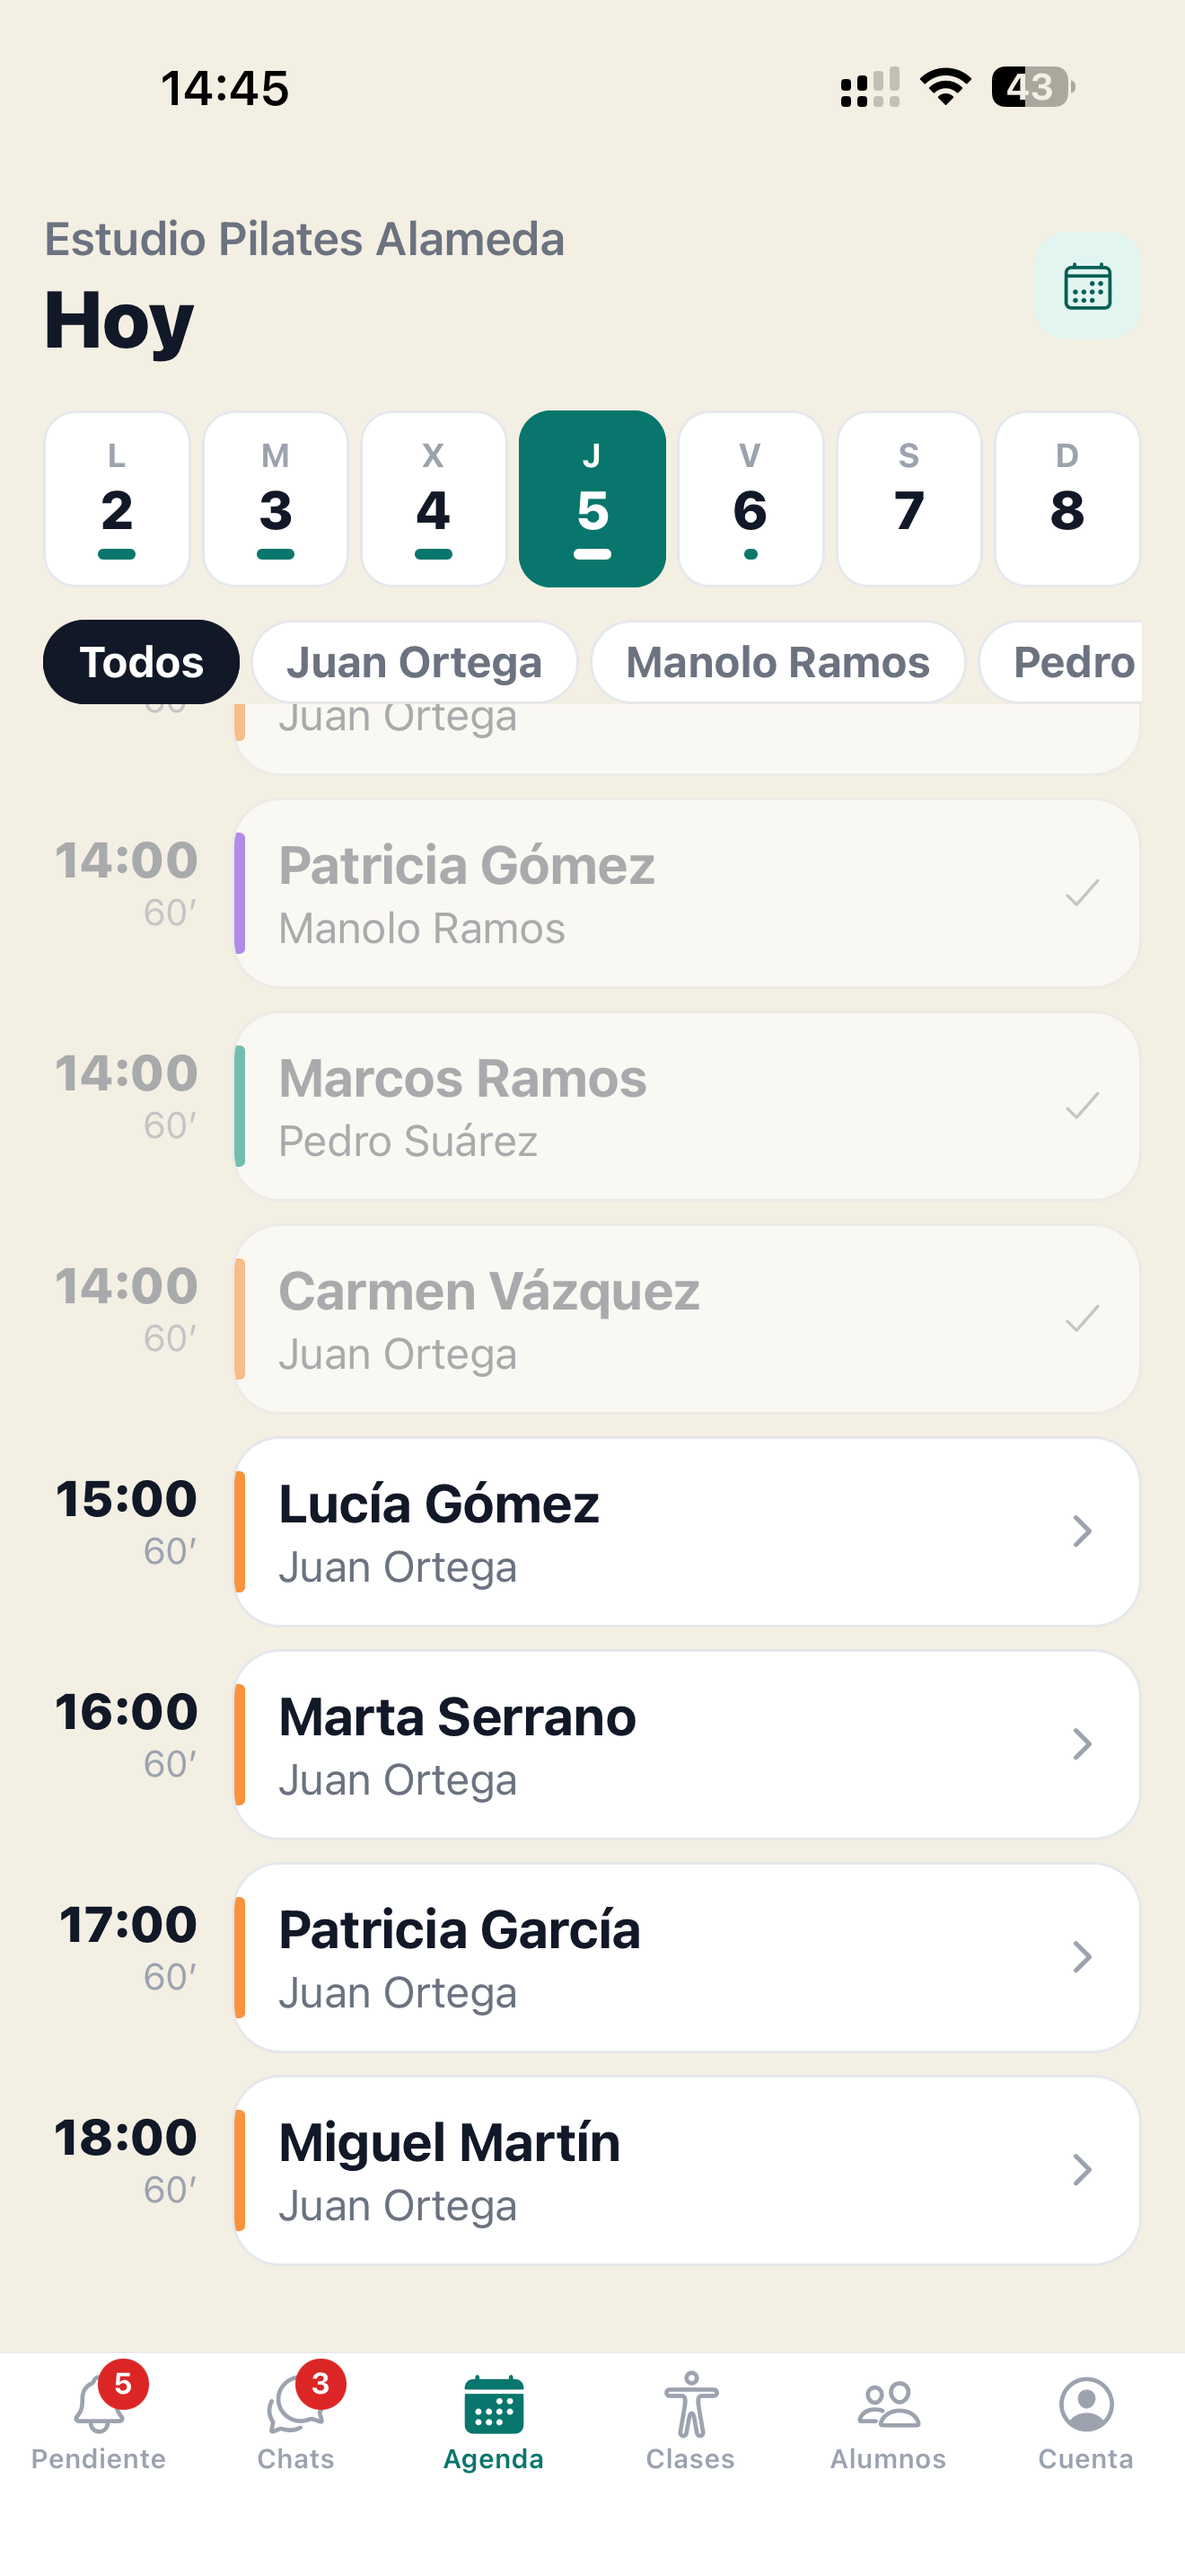
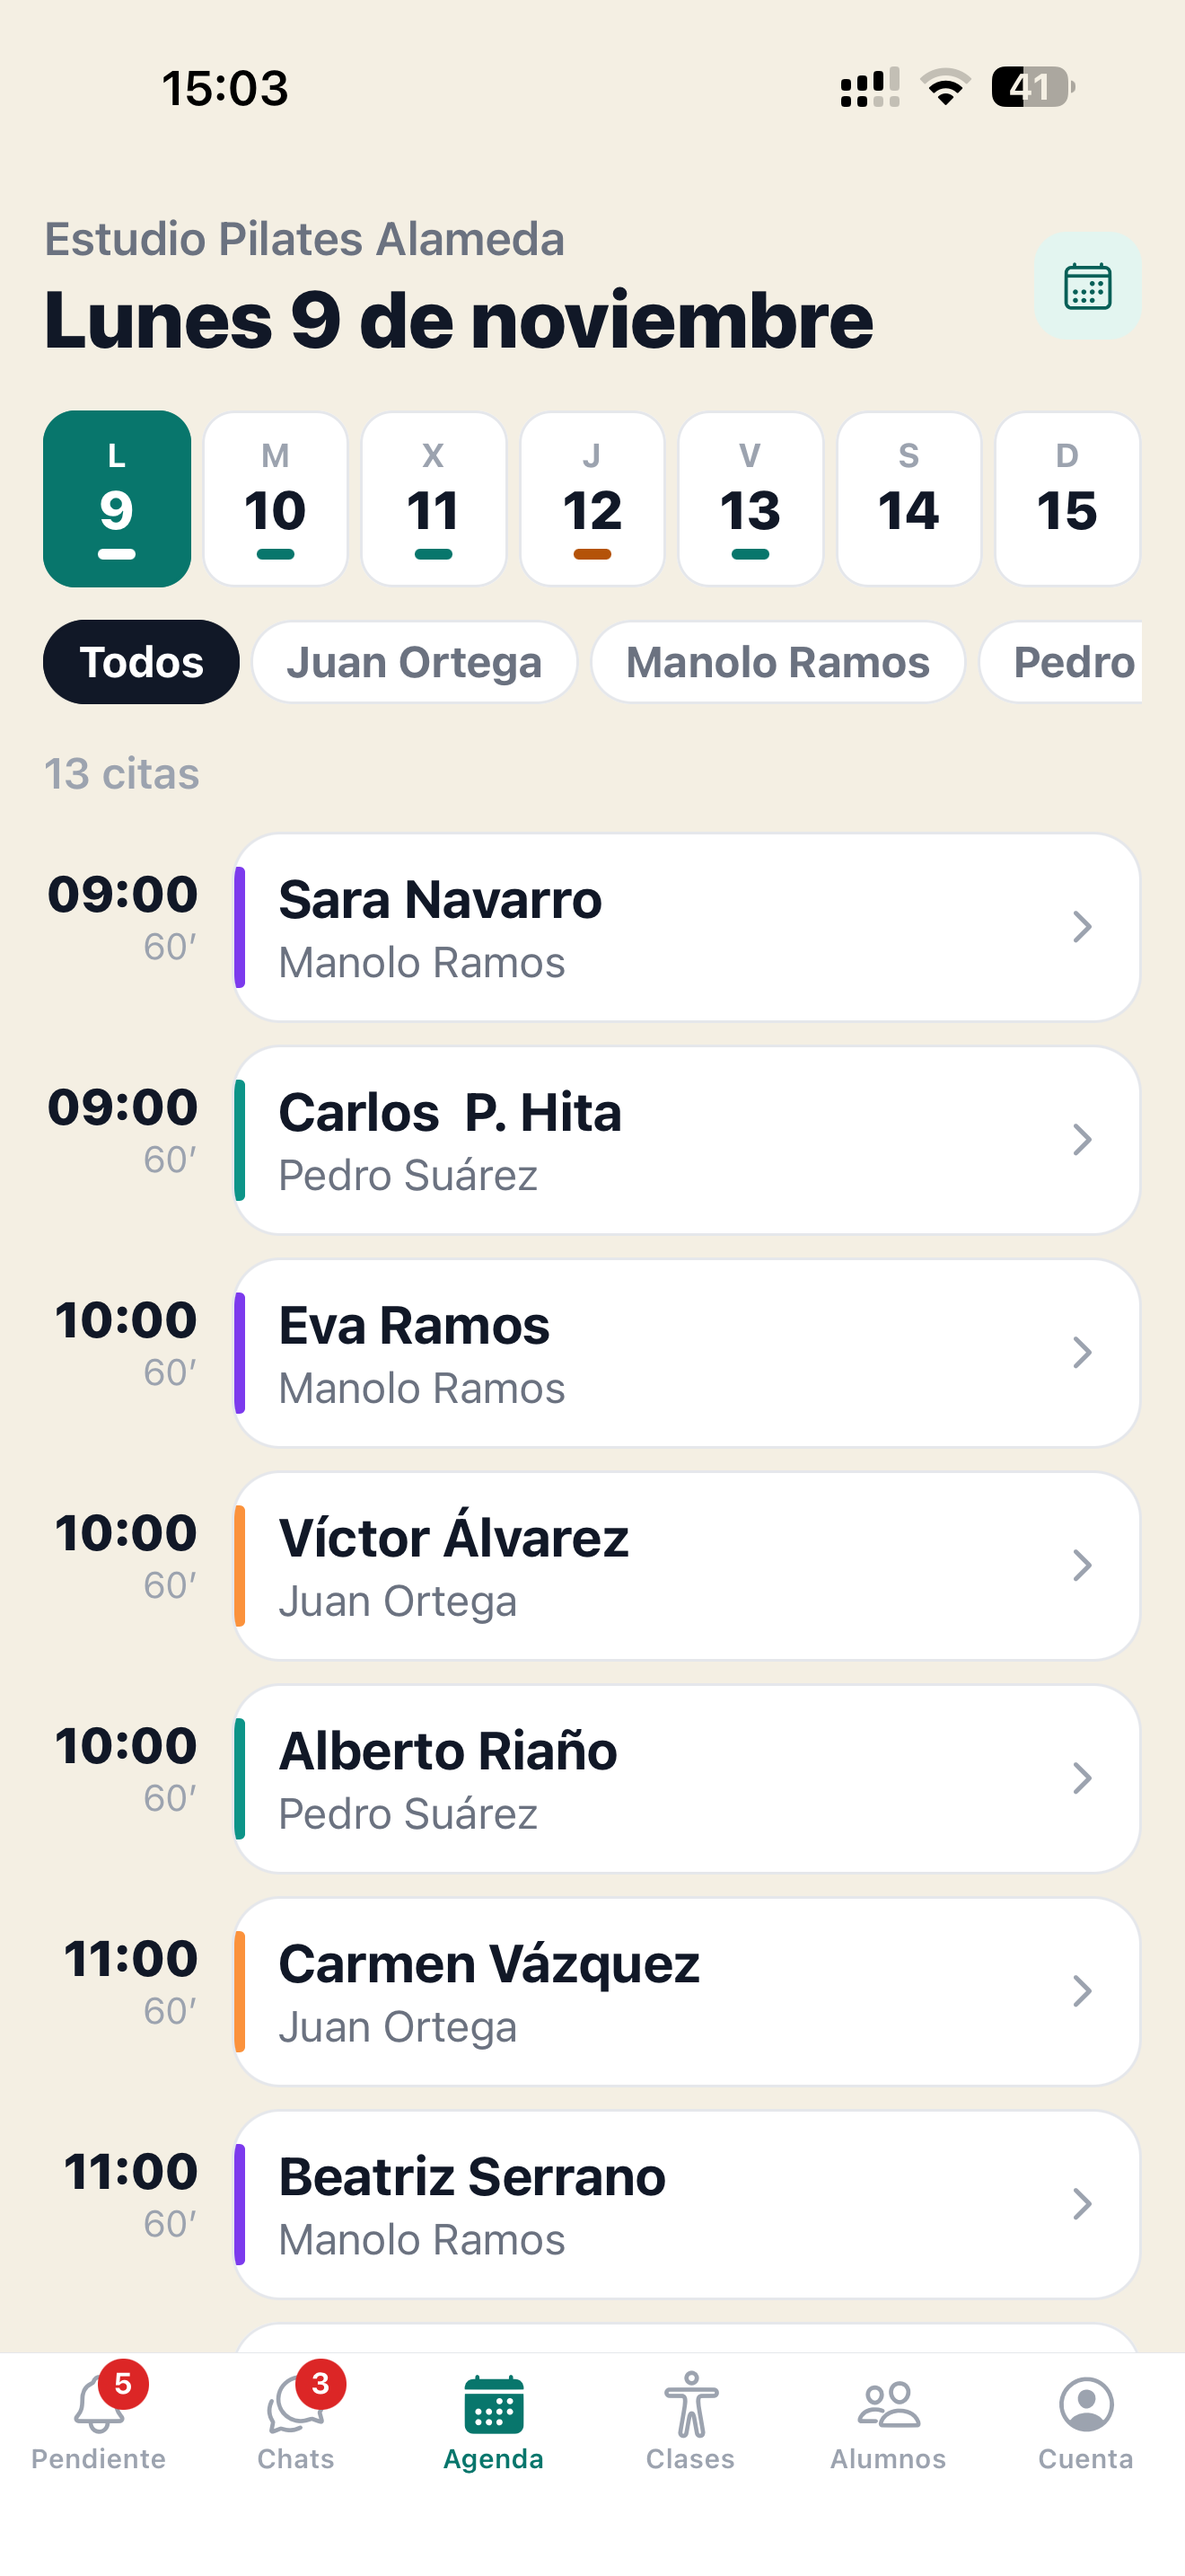
feat: agenda y clases repetidas, con el dia lleno y desde arriba
La de clases ensenaba «30 huecos libres» y 0/12, 0/6, 0/10: un centro
donde no hay nadie apuntado. Era del `--catalogo`, que anadio clases sin
alumnos. Ahora 10/12, 5/8, 3/5 y 8/10.

La de agenda estaba con la lista ya bajada: lo primero eran tres citas
pasadas en gris y no se veia la cuenta del dia. Ahora desde arriba.

Y el pie de esa pieza decia «y las que faltan por confirmar» cuando en
la captura no hay ninguna sin confirmar. Un titular que promete algo que
no esta debajo es peor que uno mas soso.

diff --git a/scripts/capturas.py b/scripts/capturas.py
@@ -67,7 +67,7 @@ TITULARES = [
     ('Coge tú la conversación\ncuando haga falta', 'El WhatsApp del centro, con el relevo del bot'),
     ('Mira quién viene\nantes de abrir la sala', 'Y apunta a alguien con él delante'),
     ('Avisa a una clase\no a un horario', 'Y te dice a cuánta gente le va a llegar de verdad'),
-    ('Las citas de hoy,\nsin abrir el ordenador', 'Con su profesional y las que faltan por confirmar'),
+    ('Las citas del día,\nsin abrir el ordenador', 'Quién viene, a qué hora y con quién'),
     ('El día entero,\nclase a clase', 'Lo que está lleno y lo que todavía tiene hueco'),
     ('«¿Me queda bono?»,\ncontestado al momento', 'Sus clases, sus bonos y cuándo vuelve'),
 ]
